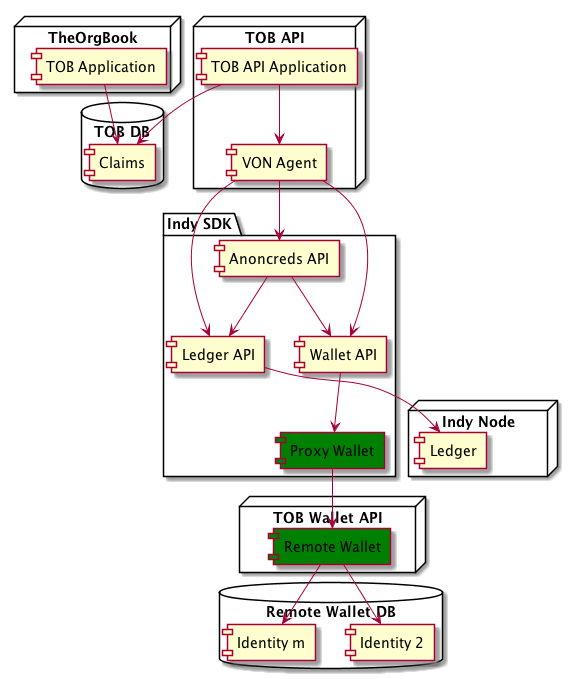
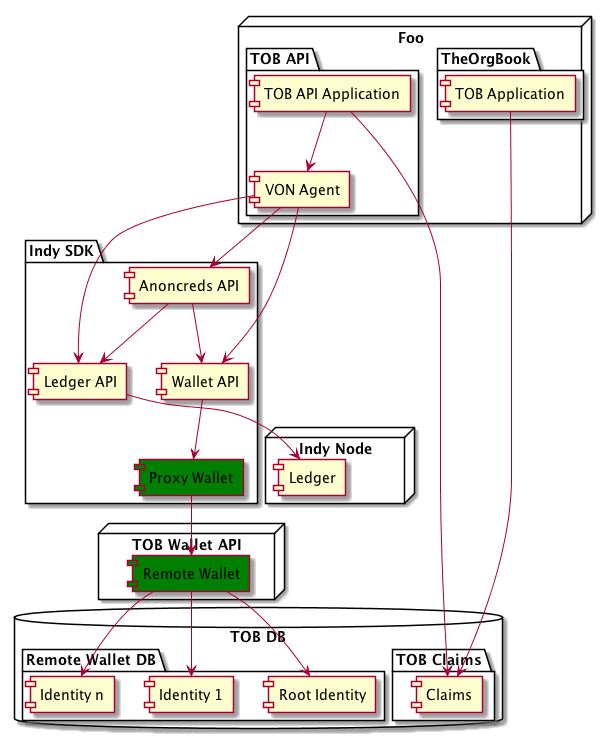
Updated wallet design

diff --git a/doc/wallet/enterprise-wallet-design.md b/doc/wallet/enterprise-wallet-design.md
@@ -1,125 +1,5 @@
 
-# Enterprise Wallet - Proposed Design Scenarios
-
-This document describes proposed changes to the SDK Wallet to support multiple identities as required by TheOrgBook.  The document first describes usage scenarios to differentiate between TheOrgbook case, and the typical case of an individual (such as Alice).  Different options for implementing a claims search (to support constructing a proof) are described.
-
-## EW Design – Usage Scenarios
-
-There are three scenarios to consider:
-
-1.	An individual holding personal claims – this is an example of the Alice/Faber “getting started” scenario.  
-1.	TheOrgBook case – an organization (the BC Government in this case) holds claims and provides proofs for many subjects.
-1.	“Guardians” – This is the scenario of a homeless shelter or refugee camp - an organization holds claims on behalf of individuals.
-
-### Wallet Use Case - An individual
-
-The individual carries their claims in their personal wallet.  There is not necessarily any correlation between any of the claims in the wallet.  The claims are issued by different parties, and don’t necessarily have any attributes in common.  Alice’s “sovereign identity” is defined by the set of claims she happens to carry in her wallet.  She can provide proofs as she needs to, revealing only the information she wants to reveal.
-
-1.	Alice’s identity is defined by the set of claims she carries in her wallet.  The data in the wallet comes from many sources and is uncorrelated (the claims do not necessarily carry any of the same attributes).
-1.	When Alice provides a proof, she can select from which claims she wants to provide the proof (the wallet gives her all the available options).  A proof may include attributes from many claims.
-1.	Alice can keep copies of her data in multiple wallets (if she chooses), or can switch from one wallet provider to another (for example if using “wallet-as-a-service”).  (The service provider will be in a similar situation to TheOrgBook, or the guardianship scenario described below.)
-
-![Alice/Faber Scenario](https://github.com/ianco/indy-sdk/raw/master/doc/wallet/ew-scenario1-alice-faber.png "Alice/Faber Scenario")
-
-### Wallet Use Case - TheOrgBook
-
-An organization (the BC Government in this case) holds claims and provides proofs for many organizations (in this case millions of corporations, and tens of millions of total claims).  The claim information is all public.  
-
-The BC Government is holding the claims and providing proofs in order to bootstrap the identity network.  The government knows the identity of the subject of each of the claims.  At some point in the future, organizations may take charge of their own claims (in order that they can provide proofs directly), however TheOrgBook may continue to be a source of both claims and proofs.
-
-1.	The data in TheOrgBook is structured – the claims are for various subjects (organizations), and the application knows which subject each claim is for.  When saving claims and providing proofs, the subject is known.  The data can be organized by subject within the wallet.
-1.	When providing a proof, the subject (organization) will be known.  TheOrgBook wil provide an automated reply (there is no human intervention) so the requester must provide enough information to identify the claim(s) required to attest to this certification.
-1.	If a corporation sets up their own wallet, they can copy all their claims and then provide their own proofs.  However the data in TheOrgBook is public, so the government will likely continue to provide a centralized repository of claims and proofs.
-
-![TheOrgBook Scenario](https://github.com/ianco/indy-sdk/raw/master/doc/wallet/ew-scenario2-TheOrgBook.png "TheOrgBook Scenario")
-
-### Wallet Use Case - Guardianship
-
-This is the scenario of a homeless shelter or refugee camp.  An organization is managing identities of individuals on their behalf, because they are not able to.  In the future, these individuals may take charge of their own identity, and they would be “deleted” from the organization’s wallet.
-
-1.	The data will be structured, similar to TheOrgBook case.  The managing organization will need to know who each claim is for, as well as manage a unique way of mapping to the individual (for example with biometrics).
-1.	When providing a proof, the individual will need to be present, in order to provide the biometrics (or other credentials) to access their claims.
-1.	In the future, the individual may want to move all their data to a personal wallet, and delete the data in the managing organization’s wallet.
-
-
-## EW Design – Query Scenarios
-
-1.	Multiple Virtual Wallets (wallet per subject).
-1.	Use proof request “predicates” as search criteria.
-1.	Implement query filters in the wallet API.
-1.	Use a hybrid approach:
-     1.	Initial search in TheOrgBook search database.
-     1.	Secondary search(es) against the wallet, based on TheOrgBook search results.
-
-### Wallet Query - Multiple Virtual Wallets
-
-In this scenario a separate "virtual wallet" would be used for claims and other data for each subject.
-
-The "Enterprise Wallet" would implement these within a single physical database, using the virtual wallet "name" to identify the subject for each wallet.  Creating a claim or creating a proof for a specific subject would involve two steps:
-
-```
-wallet_name = derive_wallet_from_subject(subject_name);
-subject_wallet = open_wallet(wallet_name);
-claims = get_claims(subject_wallet);
-```
-
-Within the Enterprise Wallet, the query filter would be based on the wallet name:
-
-```
-subject_name = derive_subject_from_wallet(subject_wallet);
-subject_claims = .execute("SELECT ... FROM WALLET WHERE " + derive_filter_from_subject(subject_name));
-```
-
-This would not require any changes to the API, or code outside of the Enterprise Wallet, however would not support queries across multiple subjects, or queries for sub-sets of claims within a single subject.
-
-![Virtual Wallet Query Scenario](https://github.com/ianco/indy-sdk/raw/master/doc/wallet/ew-query1-virtual-wallet.png "Virtual Wallet Query Scenario")
-
-Note that a POC wallet "src/services/wallet/enterprise.rs" has been built.  You can run a test of this wallet using:
-
-```
-cd samples/python
-PYTHONPATH=.:../../wrappers/python python src/perf_main.py -w default     # to use default wallet
-PYTHONPATH=.:../../wrappers/python python src/perf_main.py -w enterprise  # to use enterprise "virtual" wallet
-```
-
-
-### Wallet Query - Use "Predicates" as Query filters
-
-Proof requests already include "predicates", which restrict attributes to specific sub-sets of data, for example:
-
-```
-{"predicate1_referrent": {"attr_name": "average", "p_type": ">=", "value": 4}}
-```
-
-These predicates are processed separately from the requested attributes, however it would be possible to use these as the filter criteria for the proof (for example to limit attribute selection only to those claims meeting the predicate criteria).
-
-![Predicate Query Scenario](https://github.com/ianco/indy-sdk/raw/master/doc/wallet/ew-query2-proof-req-predicate.png "Predicate Query Scenario")
-
-### Wallet Query - Implement Filters in Wallet API
-
-An example is described in the JIRA ticket [https://jira.hyperledger.org/browse/IS-486]
-
-The sequence diagram is similar to the previous case, except that the filter criteria is passed from the Client (or TheOrgBook) rather than constructed from the predicates.
-
-### Wallet Query - Hybrid Approach
-
-This scenario would implement a search across two databases:
-
-* The initial search would be performed in TheOrgBook database, which supports robust search criteria
-* This would produce a set of subjects and/or claims to include in the generated proof
-* A secondary search (or searches) would be performed against the Enterprise Wallet, based on the selection from the initial TheOrgBook search
-
-This approach would have to be implemented in combination with one of the previously described wallet changes.
-
-For example, with the Virtual Wallet approach:
-
-* The initial TheOrgBook search would produce a list of subjects
-* A secondary wallet search would be performed for each subject
-* The proof would be derived based on the total set of returned claims
-
-![Hybrid Query Scenario](https://github.com/ianco/indy-sdk/raw/master/doc/wallet/ew-query4-hybrid-query.png "Hybrid Query Scenario")
-
-## TheOrgBook Proposed Wallet Design
+# TheOrgBook Proposed Wallet Design
 
 This design proposes an enterprise wallet for TheOrgBook with the following features:
 
@@ -130,7 +10,9 @@ This design proposes an enterprise wallet for TheOrgBook with the following feat
 
 Each of these features is described below.
 
-### Indy-sdk Proposed Design
+Note please see the companion document https://github.com/ianco/indy-sdk/raw/master/doc/wallet/enterprise-wallet-design-scenarios.md for a description of the business and design scenarios.
+
+## Indy-sdk Proposed Design
 
 The new and updated components within the indy sdk are illustrated below:
 
@@ -145,9 +27,57 @@ These two new wallets types can be added to the Indy SDK without any additional 
 
 This design also proposes an additional filter parameter to the wallet's "list()" method, which is called from the anoncreds "prover_get_claims_for_proof_req()" method.  This *will* require SDK changes to the anoncreds classes.
 
-TODO the specifics of the filter implementation are still under discussion.
+TODO support for query/filter parameters.
 
-### TOB Wallet Proposed Design
+### Indy SDK "Virtual" Wallet
+
+A reference implementation will be built for a wallet that can support multiple virtual identities:
+
+* The "virtual" wallet will be built using the existing "default" wallet as a basis
+* The "virtual" wallet name will be provided using the VirtualWalletCredentials (a "virtual"wallet" attribute will be added) - this will be provided when the wallet is opened, and will be in effect during subsequent wallet operations, until the wallet is closed
+* If no "virtual" wallet name is provided, the "root" wallet will be used (this will have the same name as the wallet name)
+* Internally, a database column will be added to store the corresponding "virtual" wallet name (or "root" wallet name)
+* Searches will be limited within a "virtual" wallet, or the "root" wallet
+* Unit tests will be developed to the same extent as the existing default wallet
+
+### Indy SDK "Remote" Wallet
+
+A reference implementation of a "remote" wallet will be provided, including a client and a sample wallet server:
+
+* The wallet client will be implemented in Rust, within the SDK, and will use the Rust "reqwest" library
+* The wallet client will require an "endpoint" to be specified within the initial configuration (e.g. "https://theorgbook.bc.ca/api/v1")
+* The wallet client will maintain the current virtual database, and pass this to the REST API as a URL parameter
+* A sample wallet server will be provided in the sdk, implemented in Python, Django and Django REST Framework
+* The wallet server will be stateless
+* The wallet server will have the capability to support authentication on requests, but this will nto be implemented within the sample server in the sdk
+* Unit tests will be developed to the same extent as the existing default wallet
+
+The REST API will include the following:
+
+```
+set(): POST <virtual wallet>/set/<key> (POST body is a JSON object)
+get(): GET <virtual wallet>/get/<key> (response body is a JSON object)
+get_not_expired(): GET <virtual wallet>/get/<key> (response body is a JSON object)
+list(): GET <virtual wallet>/list/<key prefix> (response body is a JSON object)
+list(): GET <virtual wallet>/list (response body is a JSON object)
+```
+
+TODO support for query/filter parameters.
+
+Note that the following are note supported as REST calls:
+
+```
+create(): handled by the client, to create a wallet configuration corresponding to a remote wallet
+open(): handled by the client, to register a connection to a remote wallet using a specific virtual wallet name
+close(): handled by the client, to close an existing connection (virtual wallet)
+delete(): handled by the client, to delete a wallet configuration
+```
+
+![Remote Wallet Scenarios](https://github.com/ianco/indy-sdk/raw/master/doc/wallet/ew-remote-wallet-query.png "Remote Wallet Scenarios")
+
+Creation and deletion of the remote wallet server, and its associated data store, is outside the scope fo the sdk.
+
+## TheOrgBook Wallet Proposed Design
 
 TheOrgBook will implement a remote wallet:
 
@@ -156,6 +86,18 @@ TheOrgBook will implement a remote wallet:
 The new TOB Wallet service will be implemented using existing TOB technologies (Python, Django and Django REST Framework) and follow the same design patterns as the existing TOB API services.
 
 The TOB Wallet will using the same backing database as the existing TheOrgBook database (PostgreSQL), which is used to store claims data for searching.
+
+## TOB "Remote" Wallet
+
+TODO description and diagram
+
+## TOB Integration of von_agent, virtual wallets and the TOB remote wallet
+
+TODO sequence diagram
+
+## Unit and Performance Testing Approach
+
+TODO
 
 ## EW Design – Other Factors
 

diff --git a/doc/wallet/enterprise-wallet-design-scenarios.md b/doc/wallet/enterprise-wallet-design-scenarios.md
@@ -1,0 +1,122 @@
+
+# Enterprise Wallet - Proposed Design Scenarios
+
+This document describes proposed changes to the SDK Wallet to support multiple identities as required by TheOrgBook.  The document first describes usage scenarios to differentiate between TheOrgbook case, and the typical case of an individual (such as Alice).  Different options for implementing a claims search (to support constructing a proof) are described.
+
+Note please see the companion document https://github.com/ianco/indy-sdk/raw/master/doc/wallet/enterprise-wallet-design.md for a description of the proposed Indy SDK and TheOrgBook implementation design.
+
+## EW Design – Usage Scenarios
+
+There are three scenarios to consider:
+
+1.	An individual holding personal claims – this is an example of the Alice/Faber “getting started” scenario.  
+1.	TheOrgBook case – an organization (the BC Government in this case) holds claims and provides proofs for many subjects.
+1.	“Guardians” – This is the scenario of a homeless shelter or refugee camp - an organization holds claims on behalf of individuals.
+
+### Wallet Use Case - An individual
+
+The individual carries their claims in their personal wallet.  There is not necessarily any correlation between any of the claims in the wallet.  The claims are issued by different parties, and don’t necessarily have any attributes in common.  Alice’s “sovereign identity” is defined by the set of claims she happens to carry in her wallet.  She can provide proofs as she needs to, revealing only the information she wants to reveal.
+
+1.	Alice’s identity is defined by the set of claims she carries in her wallet.  The data in the wallet comes from many sources and is uncorrelated (the claims do not necessarily carry any of the same attributes).
+1.	When Alice provides a proof, she can select from which claims she wants to provide the proof (the wallet gives her all the available options).  A proof may include attributes from many claims.
+1.	Alice can keep copies of her data in multiple wallets (if she chooses), or can switch from one wallet provider to another (for example if using “wallet-as-a-service”).  (The service provider will be in a similar situation to TheOrgBook, or the guardianship scenario described below.)
+
+![Alice/Faber Scenario](https://github.com/ianco/indy-sdk/raw/master/doc/wallet/ew-scenario1-alice-faber.png "Alice/Faber Scenario")
+
+### Wallet Use Case - TheOrgBook
+
+An organization (the BC Government in this case) holds claims and provides proofs for many organizations (in this case millions of corporations, and tens of millions of total claims).  The claim information is all public.  
+
+The BC Government is holding the claims and providing proofs in order to bootstrap the identity network.  The government knows the identity of the subject of each of the claims.  At some point in the future, organizations may take charge of their own claims (in order that they can provide proofs directly), however TheOrgBook may continue to be a source of both claims and proofs.
+
+1.	The data in TheOrgBook is structured – the claims are for various subjects (organizations), and the application knows which subject each claim is for.  When saving claims and providing proofs, the subject is known.  The data can be organized by subject within the wallet.
+1.	When providing a proof, the subject (organization) will be known.  TheOrgBook wil provide an automated reply (there is no human intervention) so the requester must provide enough information to identify the claim(s) required to attest to this certification.
+1.	If a corporation sets up their own wallet, they can copy all their claims and then provide their own proofs.  However the data in TheOrgBook is public, so the government will likely continue to provide a centralized repository of claims and proofs.
+
+![TheOrgBook Scenario](https://github.com/ianco/indy-sdk/raw/master/doc/wallet/ew-scenario2-TheOrgBook.png "TheOrgBook Scenario")
+
+### Wallet Use Case - Guardianship
+
+This is the scenario of a homeless shelter or refugee camp.  An organization is managing identities of individuals on their behalf, because they are not able to.  In the future, these individuals may take charge of their own identity, and they would be “deleted” from the organization’s wallet.
+
+1.	The data will be structured, similar to TheOrgBook case.  The managing organization will need to know who each claim is for, as well as manage a unique way of mapping to the individual (for example with biometrics).
+1.	When providing a proof, the individual will need to be present, in order to provide the biometrics (or other credentials) to access their claims.
+1.	In the future, the individual may want to move all their data to a personal wallet, and delete the data in the managing organization’s wallet.
+
+
+## EW Design – Query Scenarios
+
+1.	Multiple Virtual Wallets (wallet per subject).
+1.	Use proof request “predicates” as search criteria.
+1.	Implement query filters in the wallet API.
+1.	Use a hybrid approach:
+     1.	Initial search in TheOrgBook search database.
+     1.	Secondary search(es) against the wallet, based on TheOrgBook search results.
+
+### Wallet Query - Multiple Virtual Wallets
+
+In this scenario a separate "virtual wallet" would be used for claims and other data for each subject.
+
+The "Enterprise Wallet" would implement these within a single physical database, using the virtual wallet "name" to identify the subject for each wallet.  Creating a claim or creating a proof for a specific subject would involve two steps:
+
+```
+wallet_name = derive_wallet_from_subject(subject_name);
+subject_wallet = open_wallet(wallet_name);
+claims = get_claims(subject_wallet);
+```
+
+Within the Enterprise Wallet, the query filter would be based on the wallet name:
+
+```
+subject_name = derive_subject_from_wallet(subject_wallet);
+subject_claims = .execute("SELECT ... FROM WALLET WHERE " + derive_filter_from_subject(subject_name));
+```
+
+This would not require any changes to the API, or code outside of the Enterprise Wallet, however would not support queries across multiple subjects, or queries for sub-sets of claims within a single subject.
+
+![Virtual Wallet Query Scenario](https://github.com/ianco/indy-sdk/raw/master/doc/wallet/ew-query1-virtual-wallet.png "Virtual Wallet Query Scenario")
+
+Note that a POC wallet "src/services/wallet/enterprise.rs" has been built.  You can run a test of this wallet using:
+
+```
+cd samples/python
+PYTHONPATH=.:../../wrappers/python python src/perf_main.py -w default     # to use default wallet
+PYTHONPATH=.:../../wrappers/python python src/perf_main.py -w enterprise  # to use enterprise "virtual" wallet
+```
+
+
+### Wallet Query - Use "Predicates" as Query filters
+
+Proof requests already include "predicates", which restrict attributes to specific sub-sets of data, for example:
+
+```
+{"predicate1_referrent": {"attr_name": "average", "p_type": ">=", "value": 4}}
+```
+
+These predicates are processed separately from the requested attributes, however it would be possible to use these as the filter criteria for the proof (for example to limit attribute selection only to those claims meeting the predicate criteria).
+
+![Predicate Query Scenario](https://github.com/ianco/indy-sdk/raw/master/doc/wallet/ew-query2-proof-req-predicate.png "Predicate Query Scenario")
+
+### Wallet Query - Implement Filters in Wallet API
+
+An example is described in the JIRA ticket [https://jira.hyperledger.org/browse/IS-486]
+
+The sequence diagram is similar to the previous case, except that the filter criteria is passed from the Client (or TheOrgBook) rather than constructed from the predicates.
+
+### Wallet Query - Hybrid Approach
+
+This scenario would implement a search across two databases:
+
+* The initial search would be performed in TheOrgBook database, which supports robust search criteria
+* This would produce a set of subjects and/or claims to include in the generated proof
+* A secondary search (or searches) would be performed against the Enterprise Wallet, based on the selection from the initial TheOrgBook search
+
+This approach would have to be implemented in combination with one of the previously described wallet changes.
+
+For example, with the Virtual Wallet approach:
+
+* The initial TheOrgBook search would produce a list of subjects
+* A secondary wallet search would be performed for each subject
+* The proof would be derived based on the total set of returned claims
+
+![Hybrid Query Scenario](https://github.com/ianco/indy-sdk/raw/master/doc/wallet/ew-query4-hybrid-query.png "Hybrid Query Scenario")
